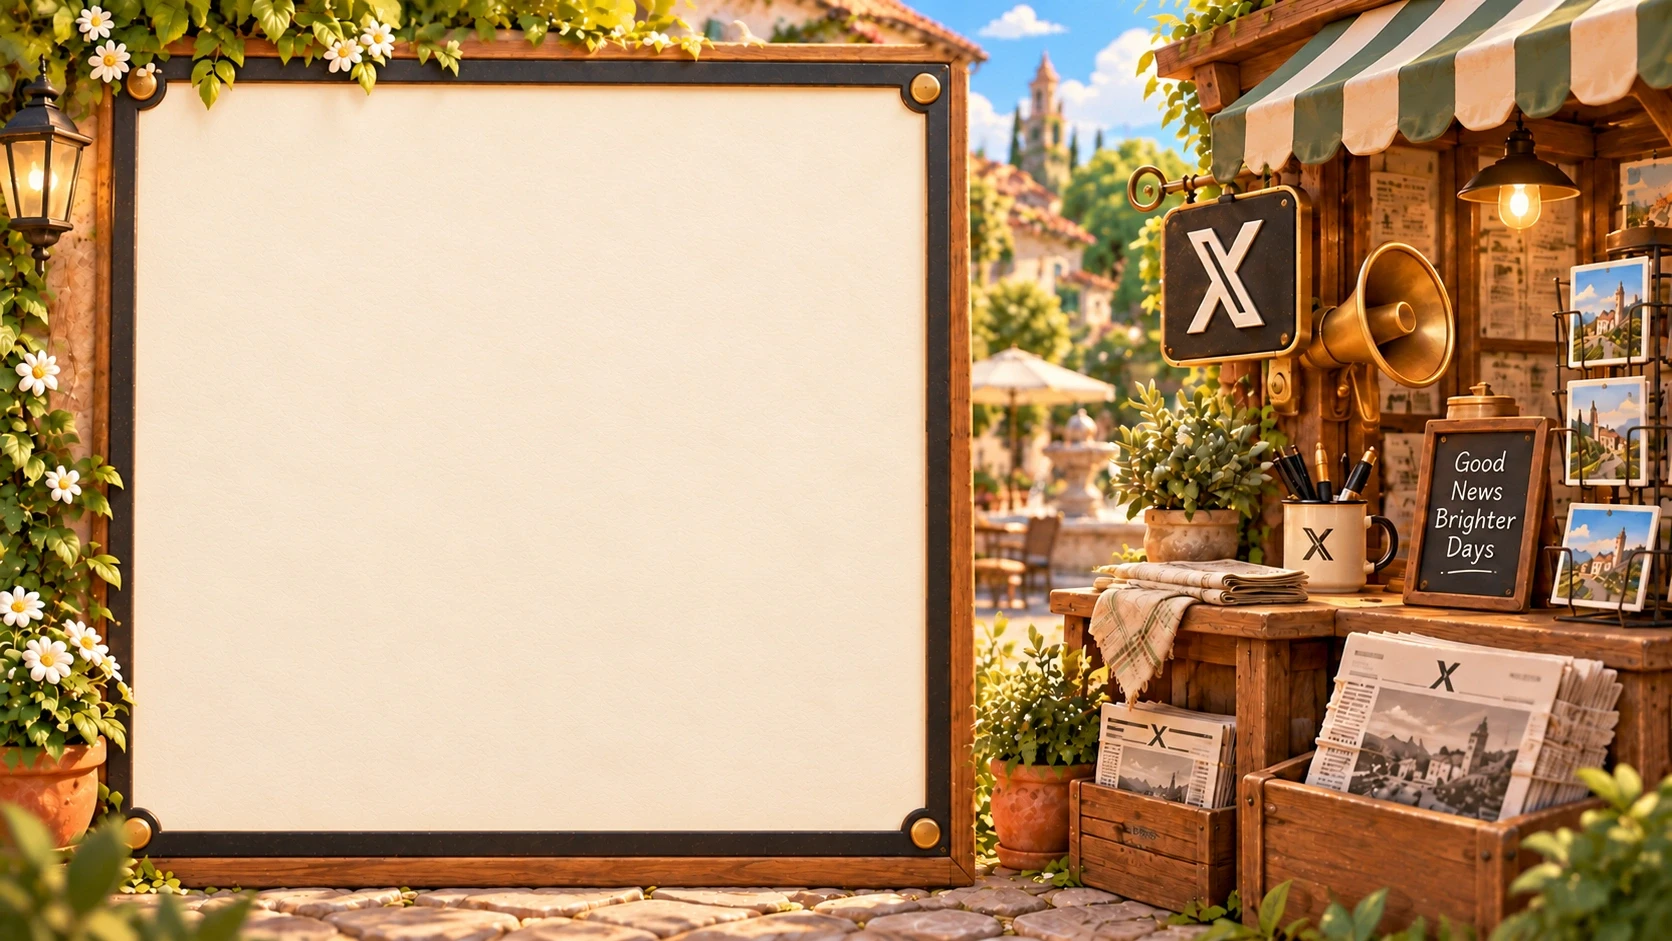
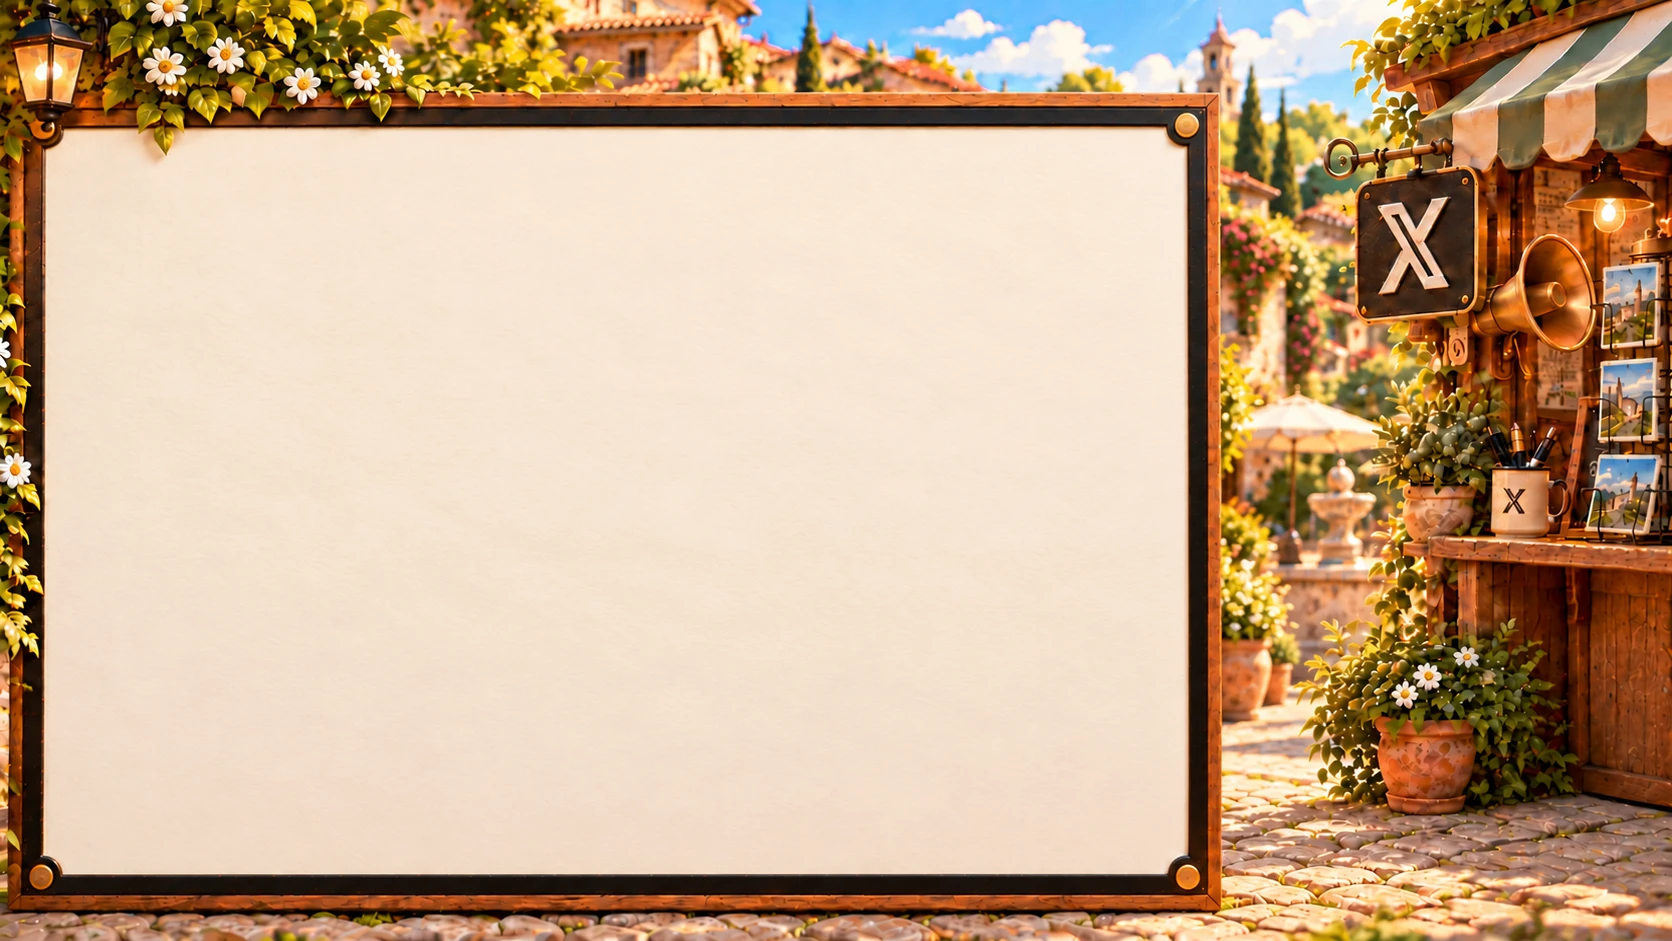
Give X a wider usable page under its Village frame

diff --git a/scripts/applet-scene-check.ts b/scripts/applet-scene-check.ts
@@ -56,17 +56,17 @@ try{
  // A framed web scene places the actual shell and Fox on the theme's registered coordinates.
  await page.addStyleTag({content:await readFile('ui/components/layout.css','utf8')+await readFile('ui/companion/companion-dialogue.css','utf8')});
  await page.evaluate(()=>{const shell=document.getElementById('shell')!;shell.id='notionWorld';shell.className='native-console fox-first-console';shell.dataset.depth='object';shell.dataset.panelScene='pokemon-showdown';shell.dataset.appletShelf='true';
-  shell.insertAdjacentHTML('beforeend','<div class="notion-content" data-template="browser"></div><div class="notion-hud"><div class="companion-dialogue">A reply beside the game</div></div>');});
- const showdown=village.appletScenes['pokemon-showdown'];
- for(const [width,height] of [[1672,941],[1440,900],[1000,900]]){
+  shell.insertAdjacentHTML('beforeend','<div class="notion-content" data-template="browser"><div class="browser-viewport"></div></div><div class="notion-hud"><div class="companion-dialogue">A reply beside the game</div></div>');});
+ for(const key of ['pokemon-showdown','x'])for(const [width,height] of [[1672,941],[1440,900],[1000,900]]){
   await page.setViewportSize({width,height});
-  await page.evaluate(source=>{const w=window as any;w.scene.destroy();w.scene=w.Scene.mountAppletScene(document.getElementById('host'),'pokemon-showdown',{source,shell:document.getElementById('notionWorld')});},showdown);
+  await page.evaluate(([key,source])=>{const w=window as any;w.scene.destroy();document.getElementById('notionWorld')!.dataset.panelScene=key;w.scene=w.Scene.mountAppletScene(document.getElementById('host'),key,{source,shell:document.getElementById('notionWorld')});},[key,village.appletScenes[key]]);
   await page.waitForTimeout(350);
-  const bounds=await page.evaluate(()=>{const box=(s:string)=>{const r=document.querySelector(s)!.getBoundingClientRect();return {x:r.x,y:r.y,width:r.width,height:r.height};};return {panel:box('.notion-content'),hud:box('.notion-hud'),replyWidth:parseFloat(getComputedStyle(document.querySelector('.companion-dialogue')!).width),scene:(window as any).scene.metrics};});
+  const bounds=await page.evaluate(()=>{const box=(s:string)=>{const r=document.querySelector(s)!.getBoundingClientRect();return {x:r.x,y:r.y,width:r.width,height:r.height};};return {padding:getComputedStyle(document.querySelector('.notion-content')!).padding,viewportRadius:getComputedStyle(document.querySelector('.browser-viewport')!).borderRadius,panel:box('.notion-content'),hud:box('.notion-hud'),replyWidth:parseFloat(getComputedStyle(document.querySelector('.companion-dialogue')!).width),scene:(window as any).scene.metrics};});
+  assert.equal(bounds.padding,'0px','The native page has no second inset');assert.equal(bounds.viewportRadius,'0px','The painted foreground owns the corners');
   assert.ok(bounds.panel.x+bounds.panel.width<bounds.hud.x,'Fox and the webpage do not overlap at '+width);
   assert.ok(Math.abs(bounds.hud.x+bounds.hud.width/2-(bounds.scene.companion.x+bounds.scene.companion.width/2))<2,'Fox is centered in the painted companion lane');
   assert.ok(bounds.replyWidth<=bounds.hud.width+1,'Replies fit Fox’s lane');
-  if(width===1672){assert.ok(bounds.panel.width>width*.64,'The webpage uses about two thirds of the width');assert.ok(bounds.panel.height>height*.79,'The webpage uses about eighty percent of the height, after the shelf');}
+  if(width===1672){assert.ok(bounds.panel.width>width*(key==='x'?.68:.64),'The webpage uses about two thirds of the width');assert.ok(bounds.panel.height>height*.79,'The webpage uses about eighty percent of the height, after the shelf');}
  }
  await page.setViewportSize({width:500,height:800});await page.waitForTimeout(50);
  assert.equal(await page.locator('#notionWorld').getAttribute('data-applet-frame'),null,'Compact layout releases the companion lane');

diff --git a/ui/applets/scene/applet-scene.css b/ui/applets/scene/applet-scene.css
@@ -93,3 +93,12 @@
  top:max(var(--applet-scene-primary-top),132px);
  height:calc(var(--applet-scene-primary-height) + var(--applet-scene-primary-top) - max(var(--applet-scene-primary-top),132px));
 }
+
+/* The extracted foreground is the only rim: the native rectangle reaches underneath it.
+   A second CSS mat, rounded corner or inset would expose an empty border around the website. */
+#notionWorld[data-applet-frame][data-applet-scene][data-panel-scene]>.notion-content[data-template=browser]{
+ --browser-pad:0px;padding:0;border-radius:0;background:transparent;box-shadow:none;
+}
+#notionWorld[data-applet-frame][data-applet-scene][data-panel-scene]>.notion-content[data-template=browser] .browser-viewport{
+ border-radius:0;box-shadow:none;
+}

diff --git a/docs/README.md b/docs/README.md
@@ -53,7 +53,7 @@ The generated inventory lists every Markdown file in the repository. `npm run ch
 
 <!-- documentation-inventory:start -->
 
-Indexed: **276 Markdown documents** and **621 supporting documentation files**.
+Indexed: **277 Markdown documents** and **622 supporting documentation files**.
 
 | Category | Files |
 | --- | ---: |
@@ -61,10 +61,10 @@ Indexed: **276 Markdown documents** and **621 supporting documentation files**.
 | Product, architecture and operations guides | 16 |
 | Applet runtime descriptions | 119 |
 | UI and Applet authoring references | 31 |
-| Resource and artwork records | 72 |
+| Resource and artwork records | 73 |
 | Module and service documentation | 32 |
 | Website documentation and articles | 0 |
-| Documentation diagrams, previews and evidence | 621 |
+| Documentation diagrams, previews and evidence | 622 |
 
 <details><summary>Root entry points (6)</summary>
 
@@ -258,7 +258,7 @@ Indexed: **276 Markdown documents** and **621 supporting documentation files**.
 
 </details>
 
-<details><summary>Resource and artwork records (72)</summary>
+<details><summary>Resource and artwork records (73)</summary>
 
 - [resources/README.md](../resources/README.md)
 - [resources/audio/README.md](../resources/audio/README.md)
@@ -323,6 +323,7 @@ Indexed: **276 Markdown documents** and **621 supporting documentation files**.
 - [resources/styles/builtin/references/registered-scenes/CONCEPTS.md](../resources/styles/builtin/references/registered-scenes/CONCEPTS.md)
 - [resources/styles/builtin/references/registered-scenes/README.md](../resources/styles/builtin/references/registered-scenes/README.md)
 - [resources/styles/builtin/references/registered-scenes/brands/pokemon-showdown/frame-cutout.md](../resources/styles/builtin/references/registered-scenes/brands/pokemon-showdown/frame-cutout.md)
+- [resources/styles/builtin/references/registered-scenes/brands/x/frame-cutout.md](../resources/styles/builtin/references/registered-scenes/brands/x/frame-cutout.md)
 - [resources/styles/builtin/references/registered-scenes/mockups/README.md](../resources/styles/builtin/references/registered-scenes/mockups/README.md)
 - [resources/styles/builtin/references/village-hud/README.md](../resources/styles/builtin/references/village-hud/README.md)
 - [resources/styles/builtin/references/youtube-web/README.md](../resources/styles/builtin/references/youtube-web/README.md)
@@ -377,7 +378,7 @@ Indexed: **276 Markdown documents** and **621 supporting documentation files**.
 
 </details>
 
-<details><summary>Documentation diagrams, previews and evidence (621)</summary>
+<details><summary>Documentation diagrams, previews and evidence (622)</summary>
 
 - [core/diagnostics/analytics-insights.json](../core/diagnostics/analytics-insights.json)
 - [docs/architecture.html](architecture.html)
@@ -810,6 +811,7 @@ Indexed: **276 Markdown documents** and **621 supporting documentation files**.
 - [resources/styles/builtin/references/registered-scenes/brands/x/background.webp](../resources/styles/builtin/references/registered-scenes/brands/x/background.webp)
 - [resources/styles/builtin/references/registered-scenes/brands/x/effect.json](../resources/styles/builtin/references/registered-scenes/brands/x/effect.json)
 - [resources/styles/builtin/references/registered-scenes/brands/x/effect.webp](../resources/styles/builtin/references/registered-scenes/brands/x/effect.webp)
+- [resources/styles/builtin/references/registered-scenes/brands/x/frame-cutout.png](../resources/styles/builtin/references/registered-scenes/brands/x/frame-cutout.png)
 - [resources/styles/builtin/references/registered-scenes/brands/xiaohongshu/background.json](../resources/styles/builtin/references/registered-scenes/brands/xiaohongshu/background.json)
 - [resources/styles/builtin/references/registered-scenes/brands/xiaohongshu/background.webp](../resources/styles/builtin/references/registered-scenes/brands/xiaohongshu/background.webp)
 - [resources/styles/builtin/references/registered-scenes/brands/xiaohongshu/effect.json](../resources/styles/builtin/references/registered-scenes/brands/xiaohongshu/effect.json)

diff --git a/ui/applets/scene/README.md b/ui/applets/scene/README.md
@@ -16,8 +16,8 @@ Every scene Applet the active theme paints a scene for, its own or its family's,
 
 For registered websites, optional `registration.webEdge` supplies a narrow irregular foreground. `scene.paperEdge(rect)` projects original background pixels relative to the actual browser viewport. The native host paints this in a transparent, click-through child window above the external page; compact layouts, task picture in picture and website fullscreen omit it. This preserves painted paper edges without injecting CSS into the website or changing its layout.
 
-`registration.webFrame` can replace the procedural narrow overlap with a complete extracted frame. Its transparent mask has normalized source and target bounds; the shared canvas combines its alpha with the original painting's colours. The native foreground spans the scene, while the website remains a rectangular usable surface beneath the inner paper rim. The theme asset resolver publishes the mask alongside the background.
+`registration.webFrame` can replace the procedural narrow overlap with a complete extracted frame. Its transparent mask has normalized source and target bounds; the shared canvas combines its alpha with the original painting's colours. The native foreground spans the scene, while the website remains a rectangular usable surface beneath the inner paper rim. Framed websites have no extra CSS padding, corner rounding or inset shadow: register the page up to the extracted aperture so the foreground overlaps the seam rather than exposing a second empty mat. The theme asset resolver publishes the mask alongside the background.
 
 On desktop, a registered frame also aligns Fox and its reply to the theme's companion rectangle. The Applet shelf uses the resulting lane boundary, so the painting, webpage and companion do not independently reserve conflicting widths. Reply cards shrink within that lane; narrow-window and compact fallback layouts keep the shell's existing behavior.
 
-Desktop layout target: live content should use about **75% of the Applet viewport width and 80% of its height**, measured after navigation, padding and frame insets. The remaining right-hand space should actually accommodate Fox and its reply, with no redundant reserved lane between them and the Applet. Verify the full composition with the companion visible; retain the readable narrow-window fallback. See the [theme design guidance](../../../resources/themes/CONTRACT.md#registered-backgrounds-and-live-html).
+Desktop layout target: live content should use about **70% of the Applet viewport width and 80% of its height**, measured after navigation, padding and frame insets. The remaining right-hand space should actually accommodate Fox and its reply, with no redundant reserved lane between them and the Applet. Verify the full composition with the companion visible; retain the readable narrow-window fallback. See the [theme design guidance](../../../resources/themes/CONTRACT.md#registered-backgrounds-and-live-html).

diff --git a/resources/styles/builtin/references/registered-scenes/README.md b/resources/styles/builtin/references/registered-scenes/README.md
@@ -121,7 +121,7 @@ If the toolkit expands later, Contacts and Photos have official local-data APIs 
 
 ## Design and integration
 
-For new and revised desktop scenes, target a live content area about **75% of the viewport width and 80% of its height**, after navigation and frame insets. Reserve the remaining right side for the actual Fox and conversation placement; review them together so neither the Applet nor companion leaves an unusable gap. These are the current [usable-area design targets](../../../../themes/CONTRACT.md#registered-backgrounds-and-live-html), not a claim that every existing scene already meets them.
+For new and revised desktop scenes, target a live content area about **70% of the viewport width and 80% of its height**, after navigation and frame insets. Reserve the remaining right side for the actual Fox and conversation placement; review them together so neither the Applet nor companion leaves an unusable gap. These are the current [usable-area design targets](../../../../themes/CONTRACT.md#registered-backgrounds-and-live-html), not a claim that every existing scene already meets them.
 
 Match the Village world and each existing icon's recognizable objects, palette and materials. The icon's display base stays in the icon; the background expands those objects into a functional place. Brand-specific scenes must integrate recognizable product identity meaningfully, without sacrificing usable space. Vary the environment by activity: orchard, kitchen, trail, greenhouse, library, guildhall or workshop.
 

diff --git a/resources/styles/builtin/references/registered-scenes/brands/x/frame-cutout.md b/resources/styles/builtin/references/registered-scenes/brands/x/frame-cutout.md
@@ -1,0 +1,9 @@
+# X newsstand frame foreground
+
+The Village X newsstand has a wider, taller blank content aperture, with the X sign, striped awning and brass megaphone kept to the right. The lower-right paving accommodates the live companion. The website extends to the frame opening; there is no second CSS mat or rounded inset.
+
+Both background editing and transparent frame extraction use built-in imagegen. Background prompt: enlarge the original front-facing ivory board toward approximately 70% usable canvas width and 80% height, with thin dark iron and wood rails and brass corner pins. Preserve the Village palette and recognizable X newsstand props. Clear the lower-right foreground for Fox; keep the paper blank. Refine the right and bottom edges outward and top edge upward to recover usable space.
+
+Extraction prompt: retain only the original iron and wood frame, brass pins, and a 1–2 pixel irregular inner paper lip. Keep the landscape canvas and geometry; the complete paper interior and surrounding scenery must have genuine alpha transparency.
+
+The cutout was extracted from the wider draft; `catalog.json` maps its aperture onto the final 70%-width painting. The compositor uses its alpha only and takes visible colours from the background itself. It passes input through to the isolated original website. The host, not this artwork, supplies navigation, Fox and its reply.

diff --git a/resources/themes/CONTRACT.md b/resources/themes/CONTRACT.md
@@ -71,7 +71,7 @@ Desktop Applet artwork and layout should target these usable dimensions (design 
 | Dimension | Target |
 | --- | --- |
 | Usable content height | About 80% of the Applet viewport height |
-| Usable content width | About 75% of the Applet viewport width |
+| Usable content width | About 70% of the Applet viewport width |
 | Remaining right-hand space | Place Fox and its conversation here, aligned with the scene; avoid an unused gap between the Applet and companion |
 
 Measure the live HTML or website area after navigation, padding and decorative frame insets, not the outer painted board. Keep the main content on the left. Arrange frames and props around this area rather than reducing it; preserve irregular paper edges as foreground detail without covering usable controls. Check the complete composition with the actual companion and reply visible. These are approximate desktop targets; retain readable responsive fallbacks on narrow windows. Existing scenes may need revision to meet them.
